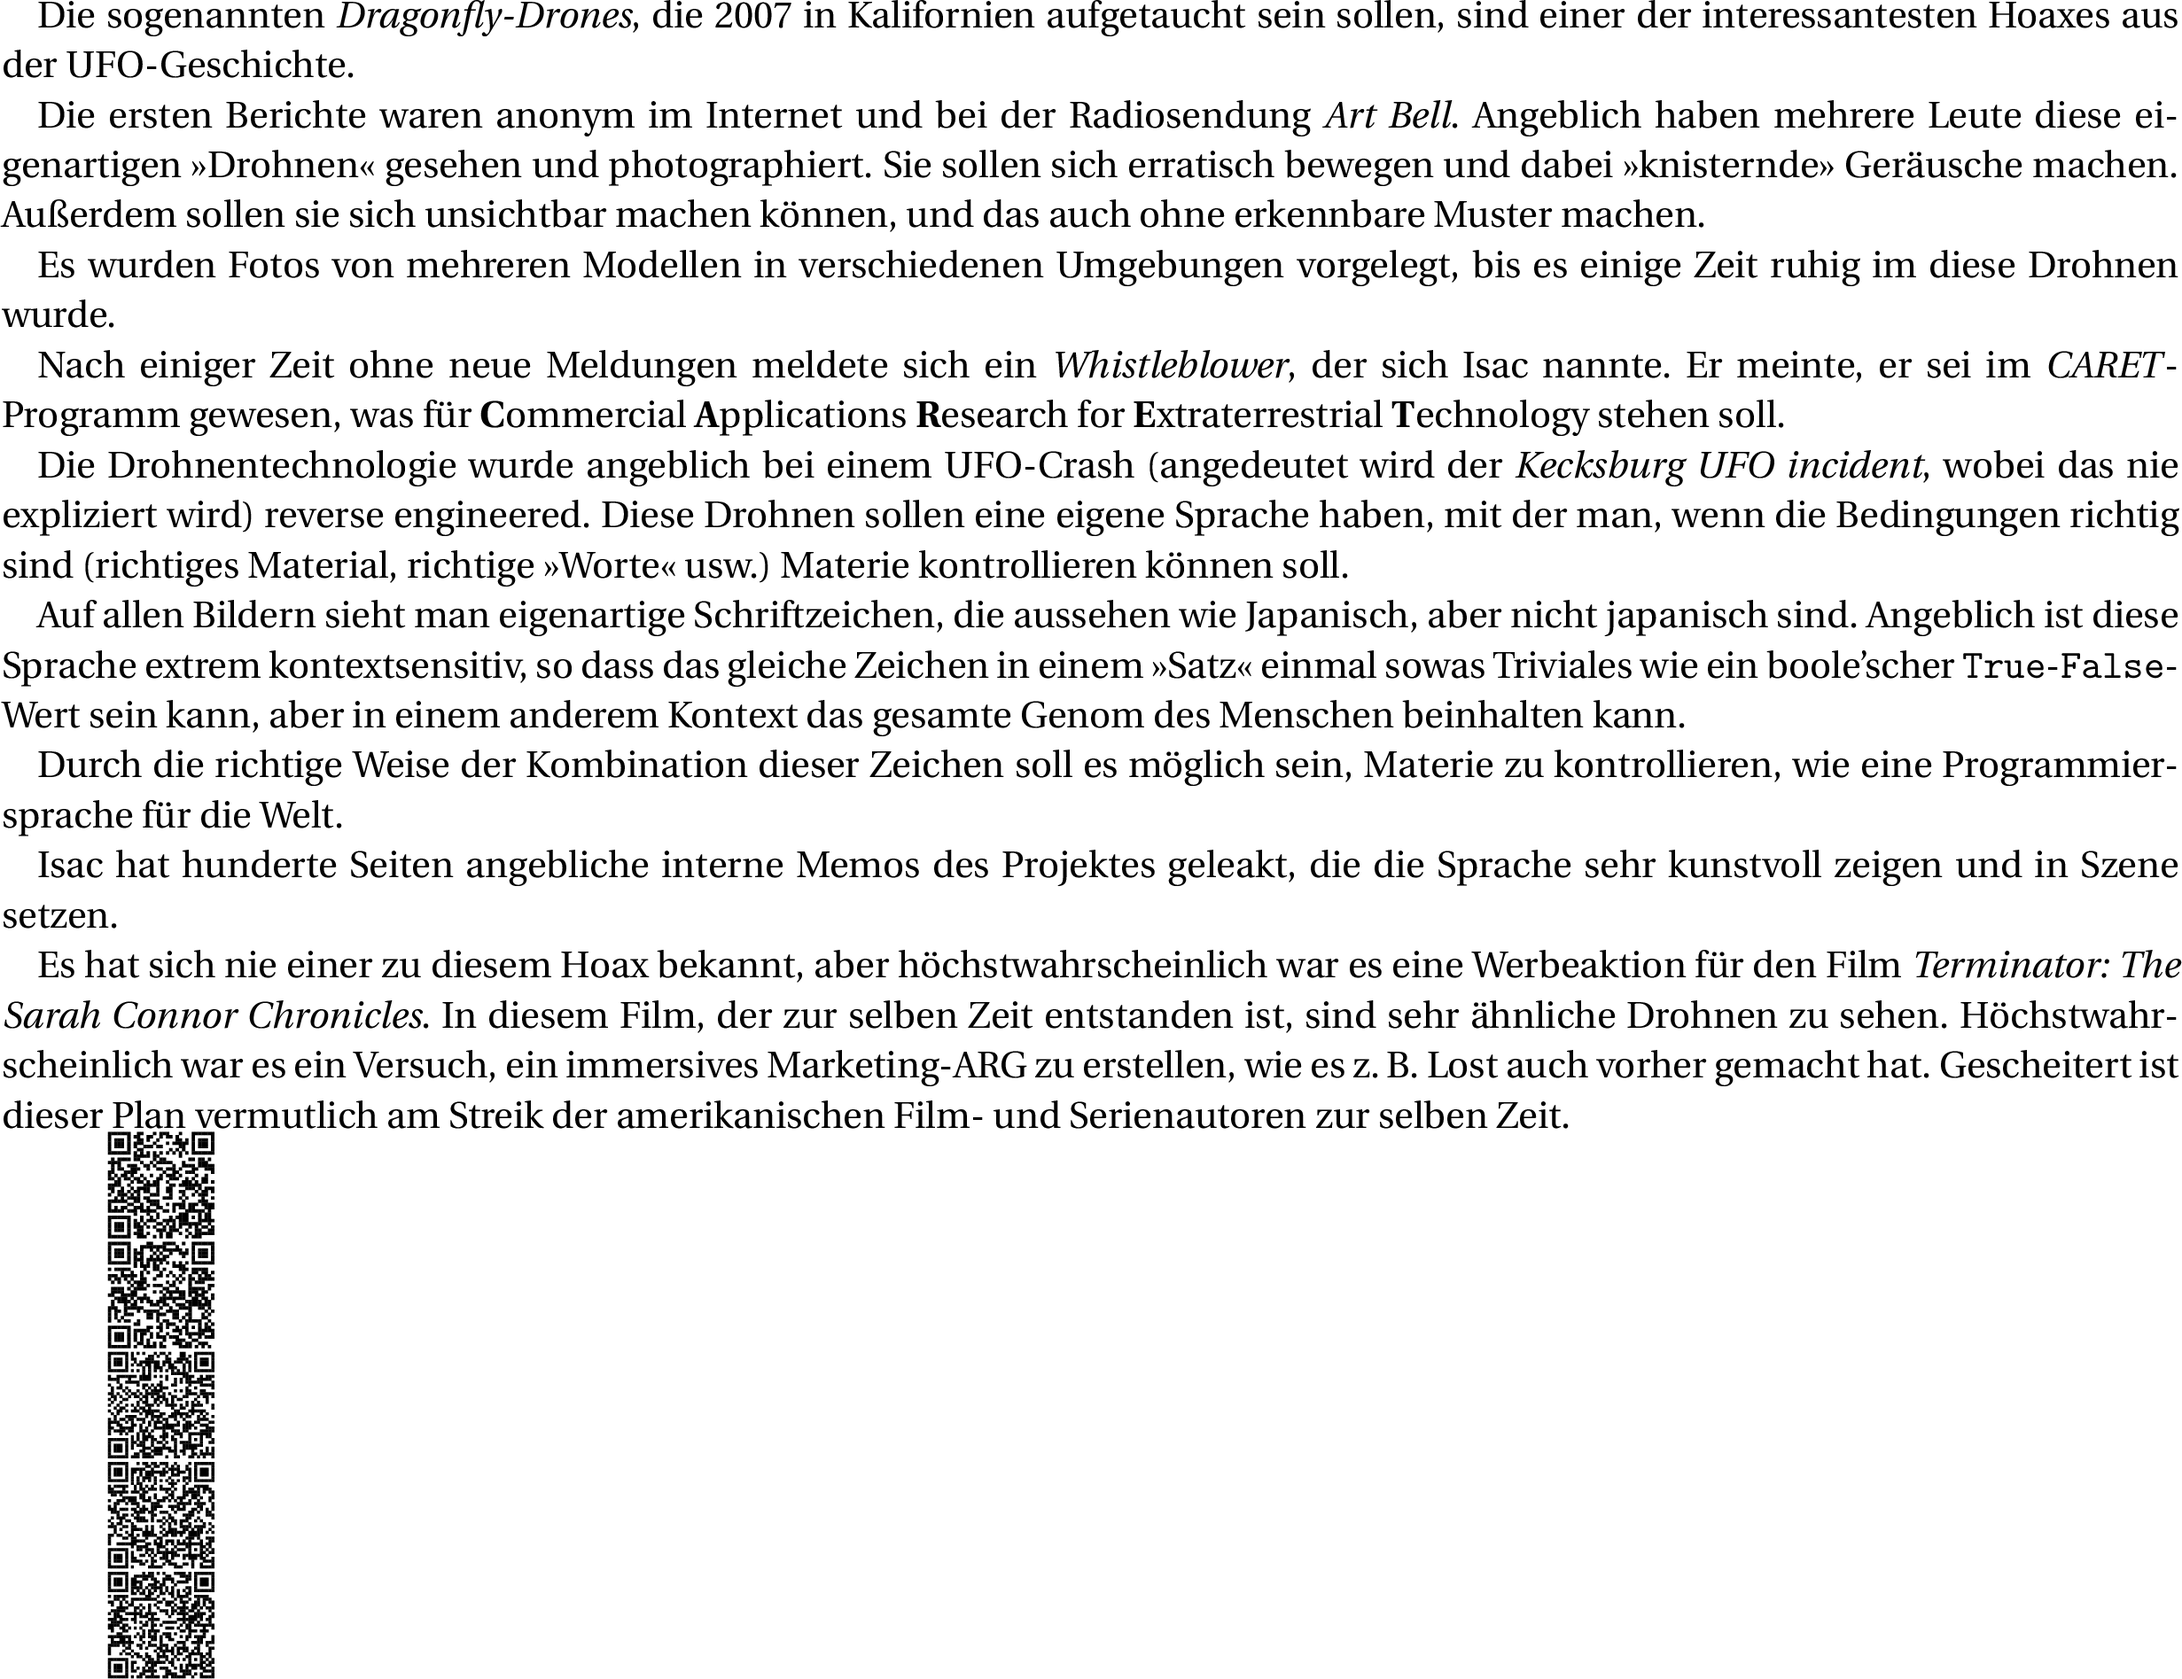
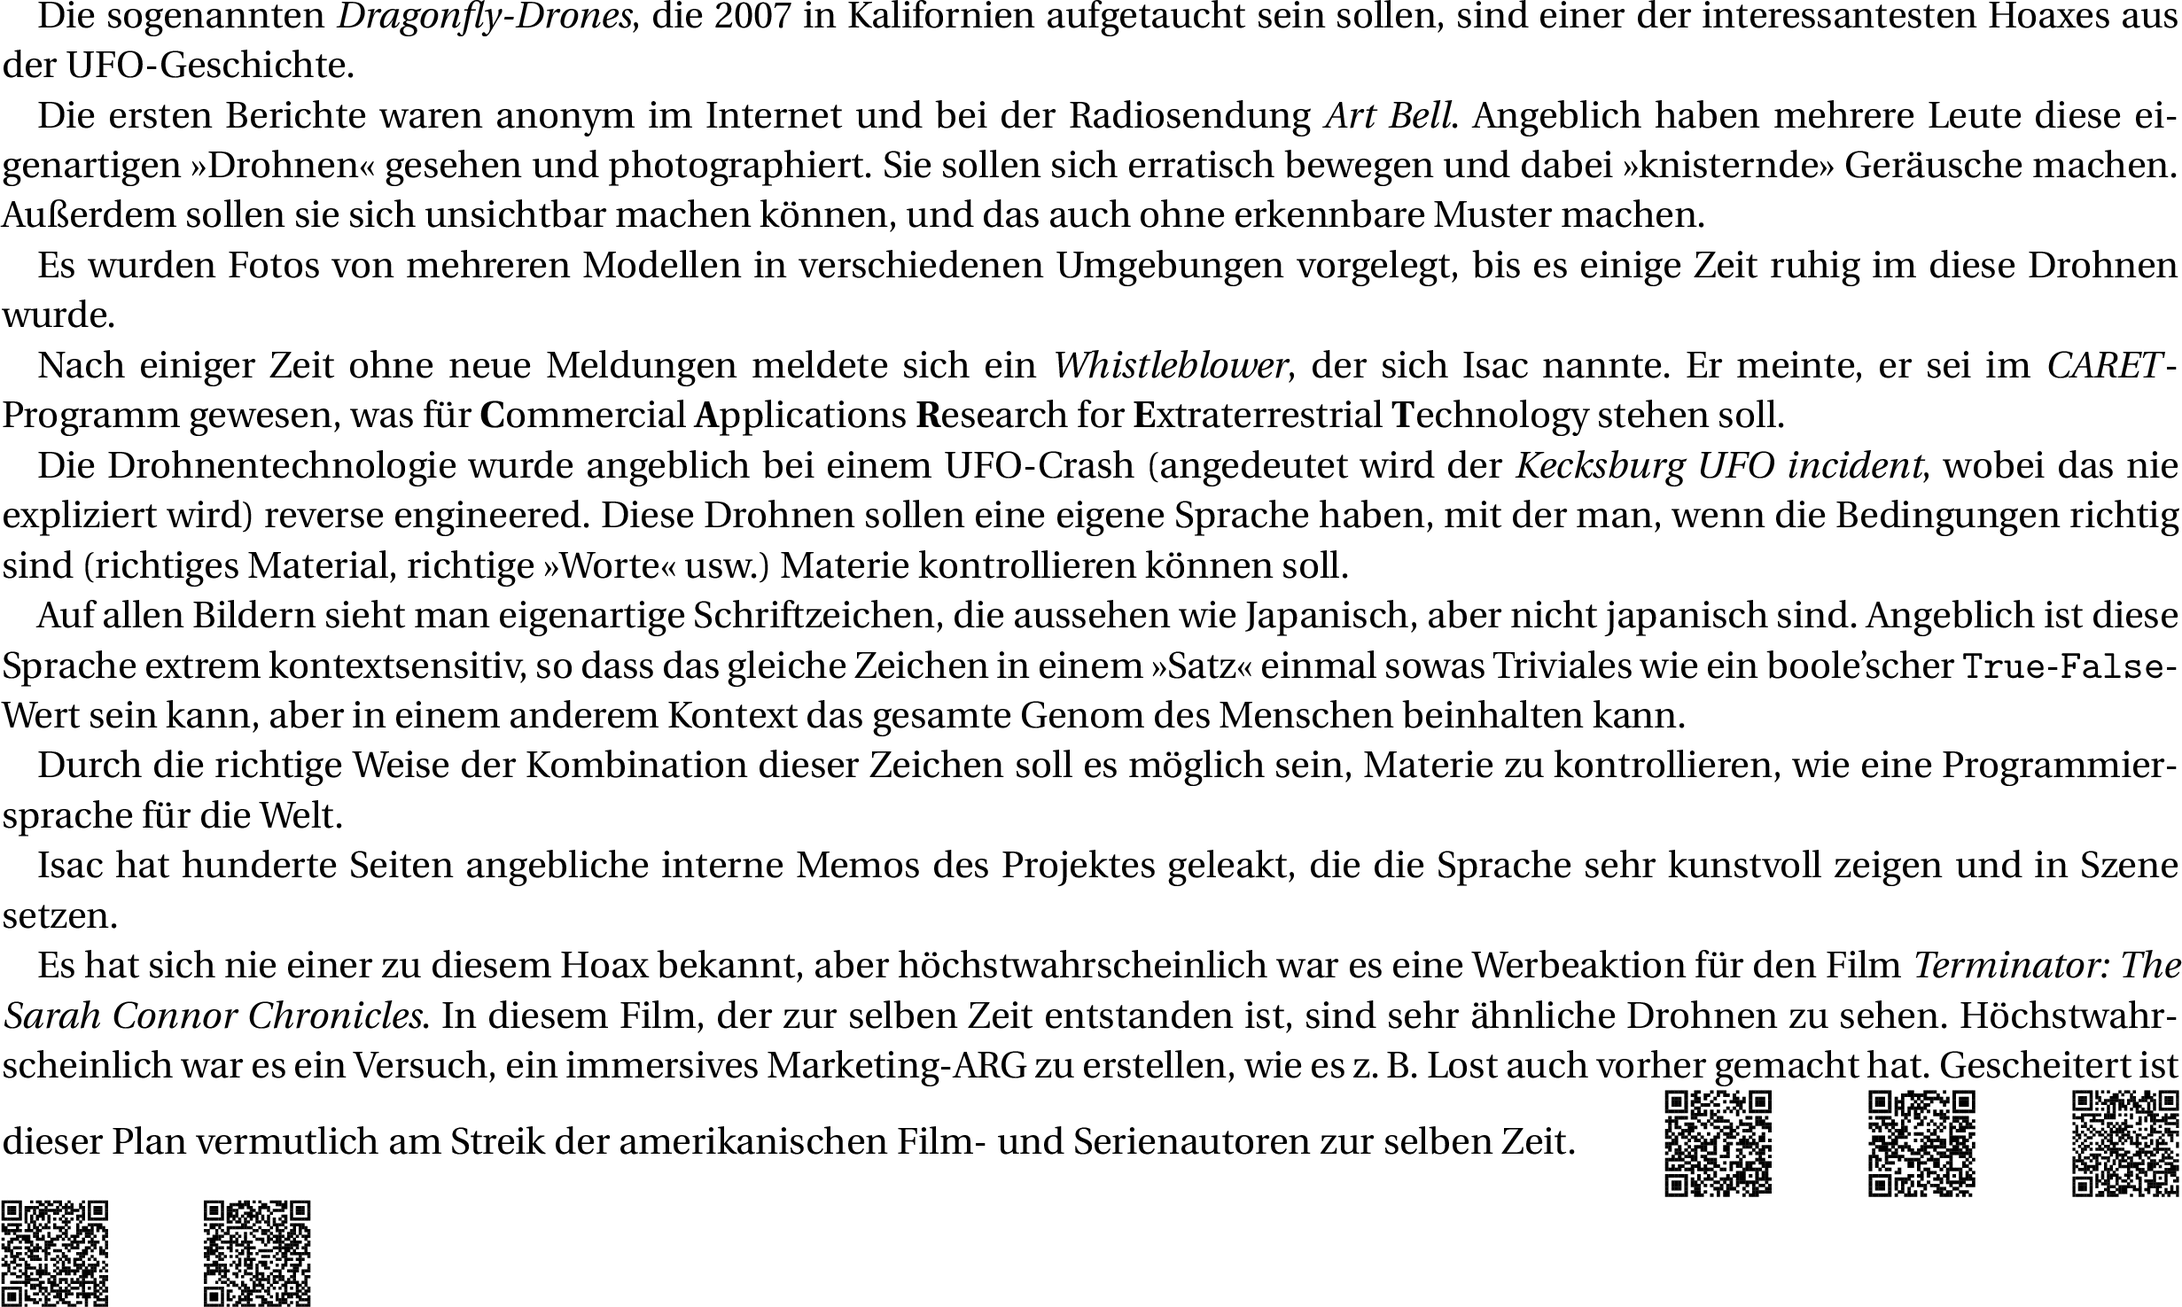
fix

Changed region(s): [[0.0, 0.0, 1.0, 1.0]]

diff --git a/poster/03/03.tex b/poster/03/03.tex
@@ -25,16 +25,6 @@ Durch die richtige Weise der Kombination dieser Zeichen soll es möglich sein, M
 
 Isac hat hunderte Seiten angebliche interne Memos des Projektes geleakt, die die Sprache sehr kunstvoll zeigen und in Szene setzen.
 
-Es hat sich nie einer zu diesem Hoax bekannt, aber höchstwahrscheinlich war es eine Werbeaktion für den Film \textit{Terminator: The Sarah Connor Chronicles}. In diesem Film, der zur selben Zeit entstanden ist, sind sehr ähnliche Drohnen zu sehen. Höchstwahrscheinlich war es ein Versuch, ein immersives Marketing-ARG zu erstellen, wie es z.\,B. Lost auch vorher gemacht hat. Gescheitert ist dieser Plan vermutlich am Streik der amerikanischen Film- und Serienautoren zur selben Zeit.
-
-\qr{https://www.youtube.com/watch?v=k-bEJ2R0dlM}
-
-\qr{https://en.wikipedia.org/wiki/Kecksburg_UFO_incident}
-
-\qr{https://screenrant.com/sarah-connor-chronicles-california-drones-mystery/}
-
-\qr{https://en.wikipedia.org/wiki/2007\%E2\%80\%9308_Writers_Guild_of_America_strike}
-
-\qr{https://archive.org/details/isaac-caret-q-4-86-research-report/page/n1/mode/2up}
+Es hat sich nie einer zu diesem Hoax bekannt, aber höchstwahrscheinlich war es eine Werbeaktion für den Film \textit{Terminator: The Sarah Connor Chronicles}. In diesem Film, der zur selben Zeit entstanden ist, sind sehr ähnliche Drohnen zu sehen. Höchstwahrscheinlich war es ein Versuch, ein immersives Marketing-ARG zu erstellen, wie es z.\,B. Lost auch vorher gemacht hat. Gescheitert ist dieser Plan vermutlich am Streik der amerikanischen Film- und Serienautoren zur selben Zeit. \qr{https://www.youtube.com/watch?v=k-bEJ2R0dlM} \qr{https://en.wikipedia.org/wiki/Kecksburg_UFO_incident} \qr{https://screenrant.com/sarah-connor-chronicles-california-drones-mystery/} \qr{https://en.wikipedia.org/wiki/2007\%E2\%80\%9308_Writers_Guild_of_America_strike} \qr{https://archive.org/details/isaac-caret-q-4-86-research-report/page/n1/mode/2up}
 
 \end{document}
